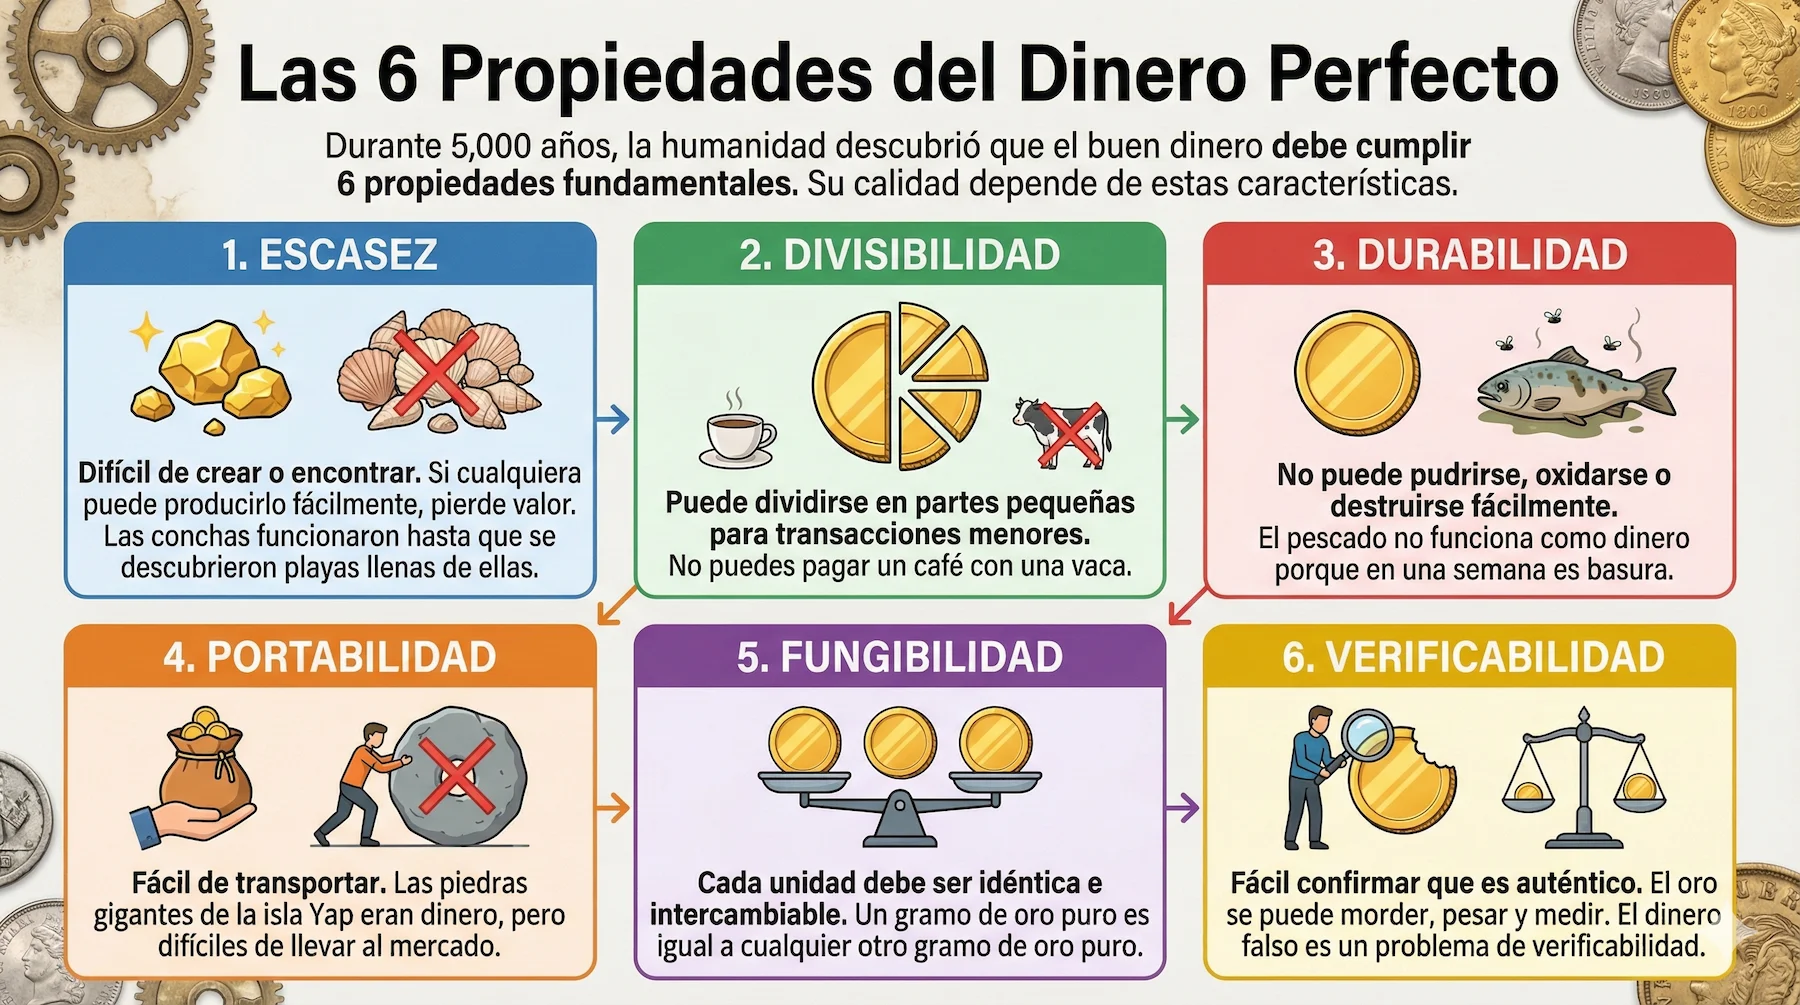
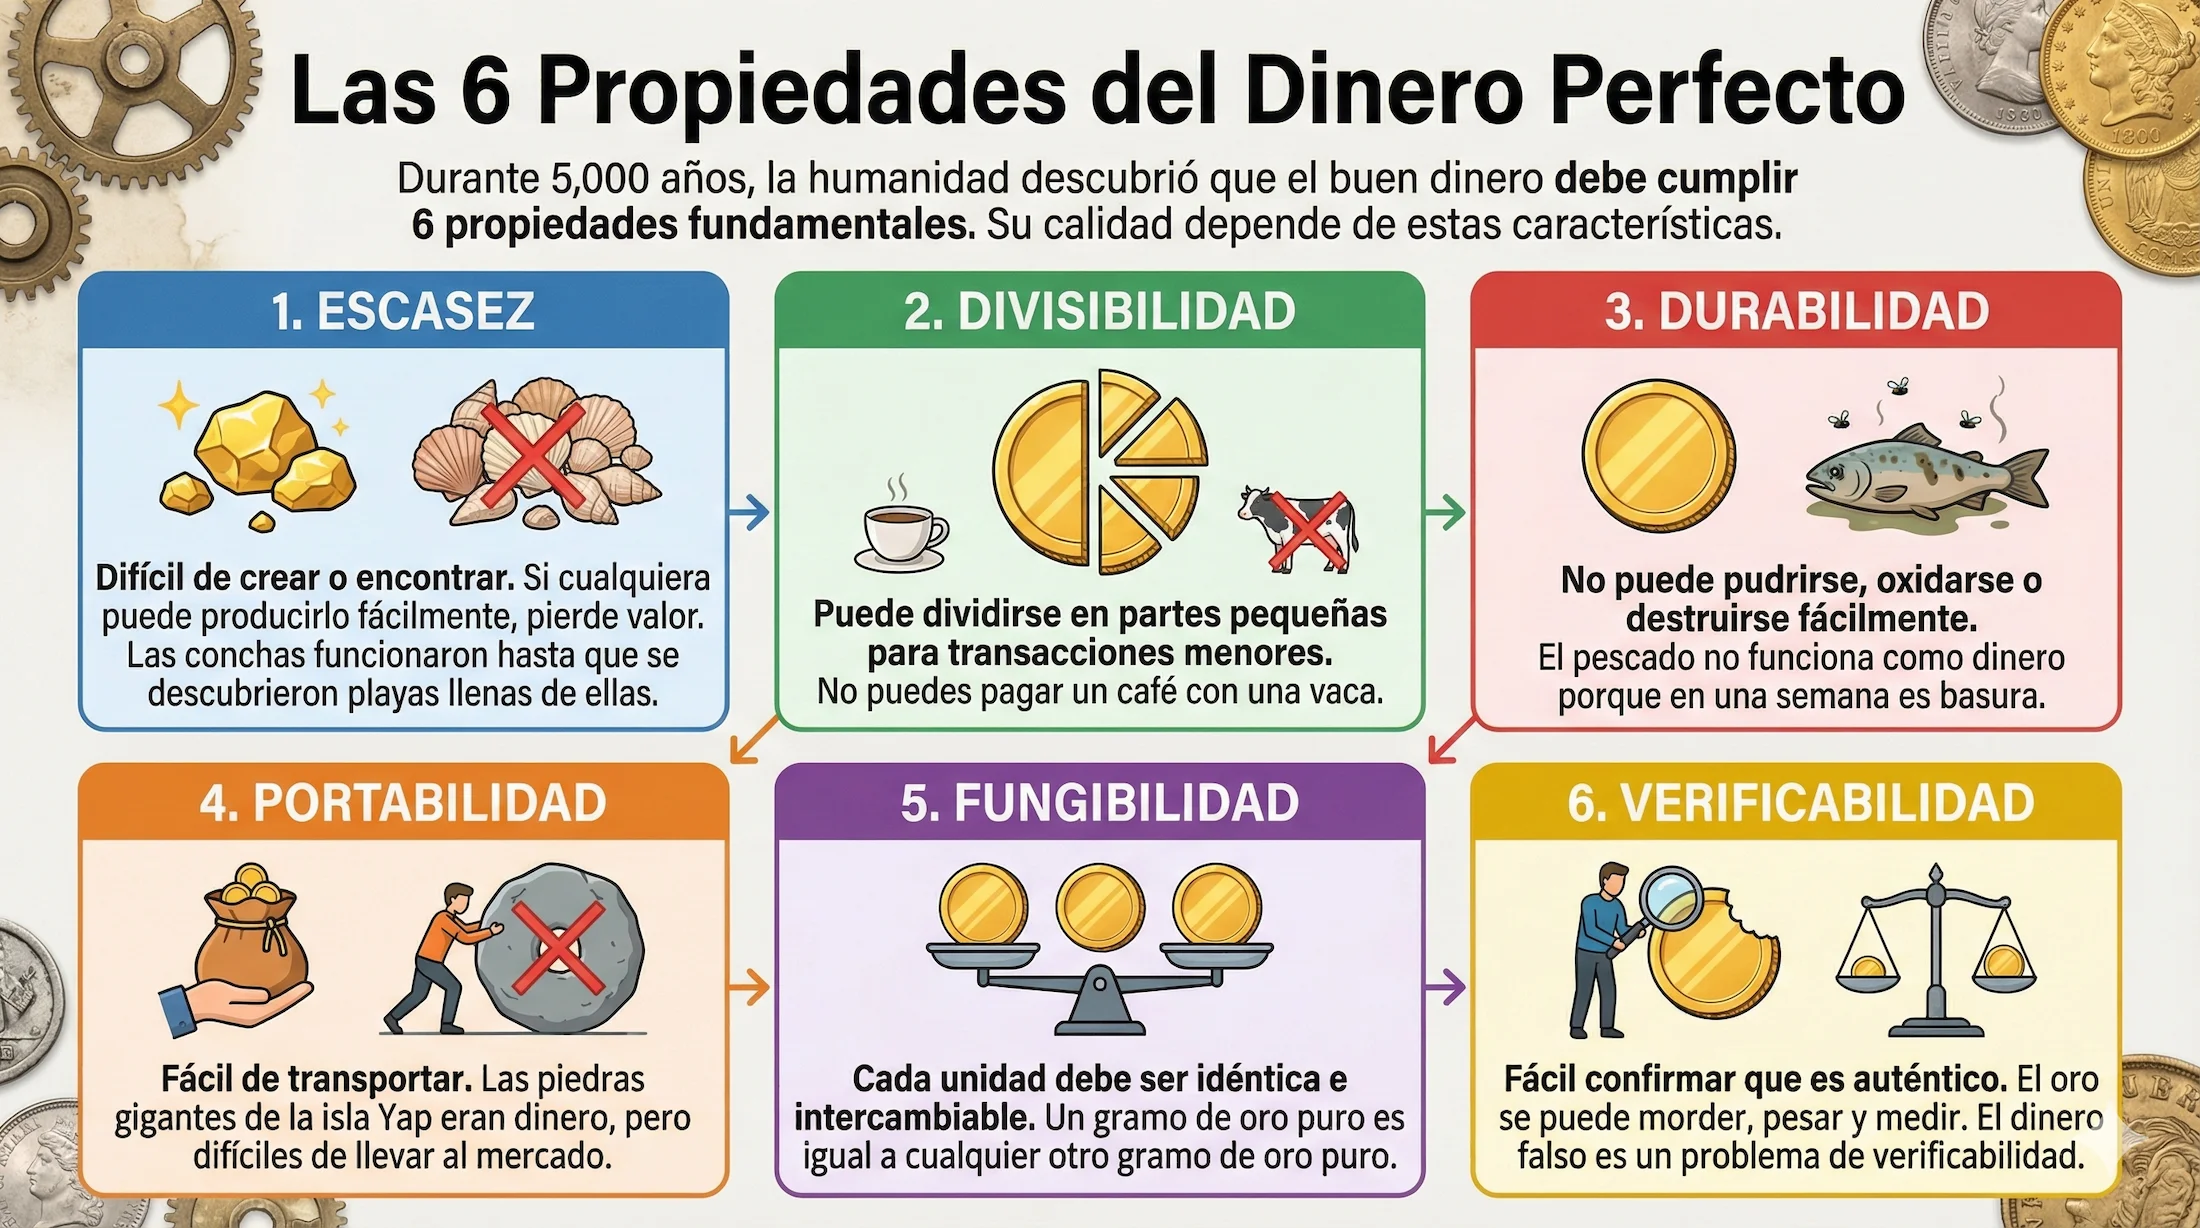
new images webp

diff --git a/data/courseData.ts b/data/courseData.ts
@@ -251,7 +251,7 @@ export const LESSONS_DATA: Record<number, any> = {
         type: 'main',
         title: 'El Experimento de 5,000 Años: Del Trueque al Oro',
         content: 'La humanidad probó de todo antes de encontrar el oro:',
-        image: '/images/lessons/lesson-1/lesson1-2.png',
+        image: '/images/lessons/lesson-1/lesson1-2.webp',
         imageAlt: 'El experimento de 5,000 años: del trueque al oro - conchas, sal, ganado y oro'
       },
       {
@@ -418,25 +418,25 @@ export const LESSONS_DATA: Record<number, any> = {
       {
         type: 'main',
         title: '1. El Banco Central Imprime',
-        image: '/images/lessons/lesson-2/lesson2-1.png',
+        image: '/images/lessons/lesson-2/lesson2-1.webp',
         imageAlt: 'Cómo el banco central crea dinero de la nada'
       },
       {
         type: 'main',
         title: '2. Los Bancos Multiplican (Reserva Fraccionaria)',
-        image: '/images/lessons/lesson-2/lesson2-2.png',
+        image: '/images/lessons/lesson-2/lesson2-2.webp',
         imageAlt: 'Sistema de reserva fraccionaria y multiplicación del dinero'
       },
       {
         type: 'main',
         title: '3. El Resultado Matemático',
-        image: '/images/lessons/lesson-2/lesson2-3.png',
+        image: '/images/lessons/lesson-2/lesson2-3.webp',
         imageAlt: 'El resultado matemático de la creación de dinero'
       },
       {
         type: 'main',
         title: '4. La Ilusión del Aumento de Sueldo',
-        image: '/images/lessons/lesson-2/lesson2-4.png',
+        image: '/images/lessons/lesson-2/lesson2-4.webp',
         imageAlt: 'La ilusión del aumento de sueldo vs la inflación real'
       },
       {
